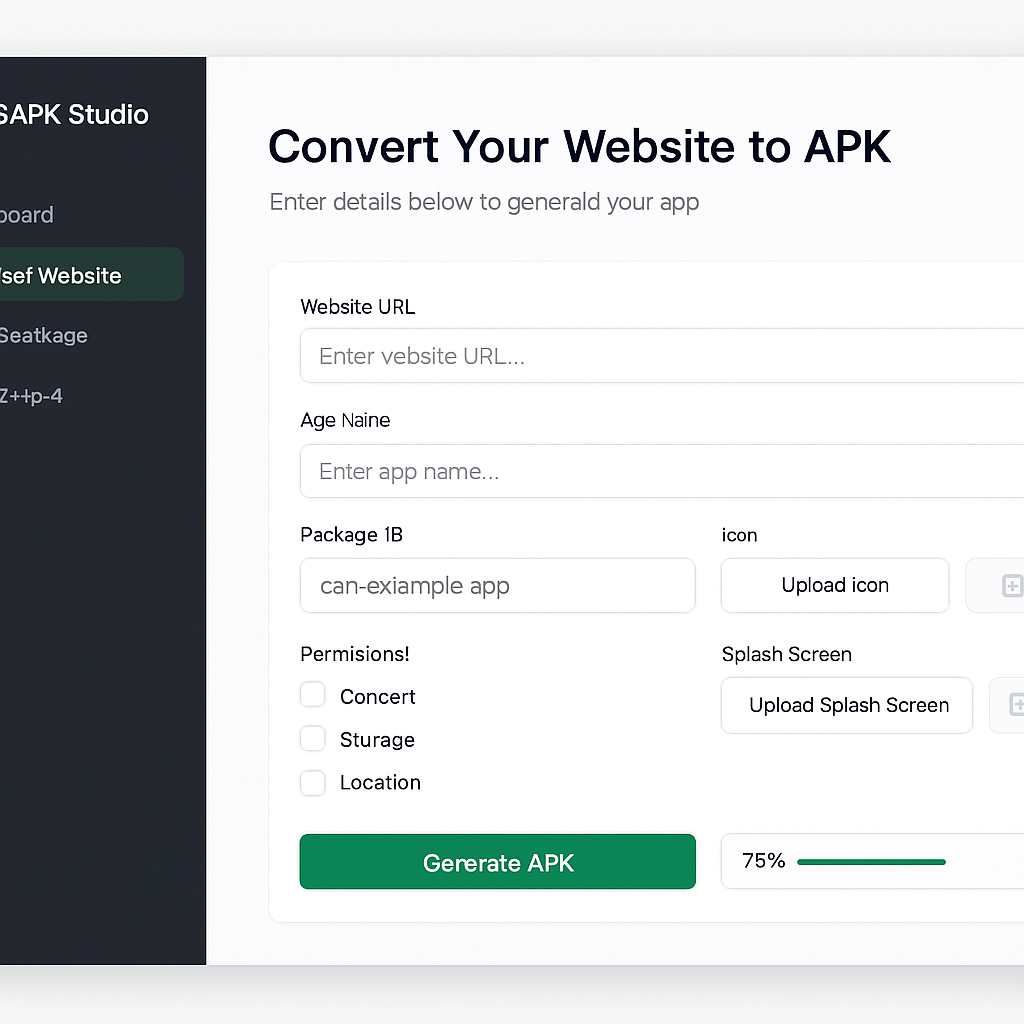
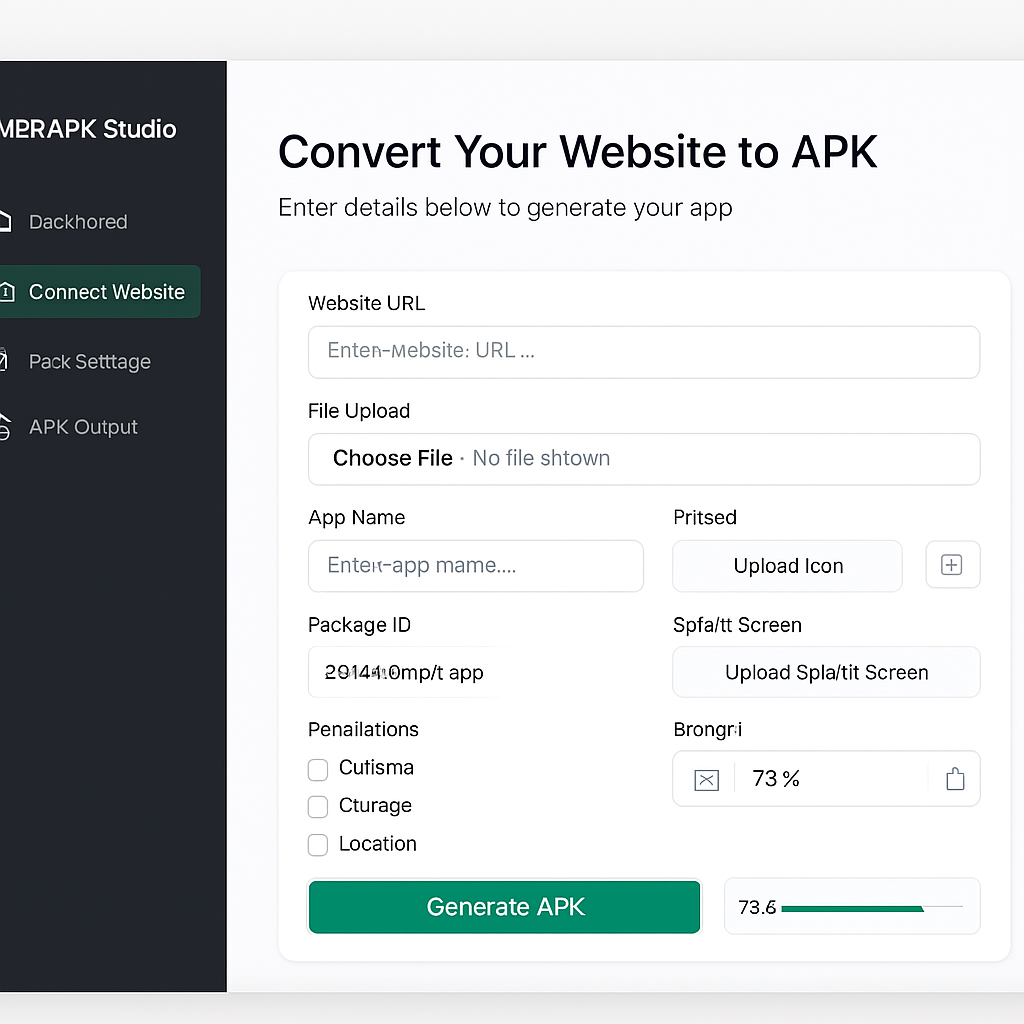
f

diff --git a/src/webtoapk_studio/App.java b/src/webtoapk_studio/App.java
@@ -32,6 +32,9 @@ public class App extends javax.swing.JFrame {
         jPanel2 = new javax.swing.JPanel();
         jLabel1 = new javax.swing.JLabel();
         jLabel2 = new javax.swing.JLabel();
+        jLabel3 = new javax.swing.JLabel();
+        jLabel4 = new javax.swing.JLabel();
+        jPanel3 = new javax.swing.JPanel();
 
         setDefaultCloseOperation(javax.swing.WindowConstants.EXIT_ON_CLOSE);
         setResizable(false);
@@ -55,10 +58,10 @@ public class App extends javax.swing.JFrame {
             .addGroup(jPanel2Layout.createSequentialGroup()
                 .addComponent(jLabel1)
                 .addGap(0, 0, Short.MAX_VALUE))
-            .addGroup(jPanel2Layout.createSequentialGroup()
-                .addGap(16, 16, 16)
+            .addGroup(javax.swing.GroupLayout.Alignment.TRAILING, jPanel2Layout.createSequentialGroup()
+                .addContainerGap(17, Short.MAX_VALUE)
                 .addComponent(jLabel2)
-                .addContainerGap(16, Short.MAX_VALUE))
+                .addGap(15, 15, 15))
         );
         jPanel2Layout.setVerticalGroup(
             jPanel2Layout.createParallelGroup(javax.swing.GroupLayout.Alignment.LEADING)
@@ -69,19 +72,53 @@ public class App extends javax.swing.JFrame {
                 .addComponent(jLabel1))
         );
 
+        jLabel3.setFont(new java.awt.Font("Yu Gothic UI Semibold", 0, 24)); // NOI18N
+        jLabel3.setForeground(new java.awt.Color(0, 0, 0));
+        jLabel3.setText("Convert Your Website To APK ");
+
+        jLabel4.setForeground(new java.awt.Color(0, 0, 0));
+        jLabel4.setText("Enter details below to generate app");
+
+        jPanel3.setBackground(new java.awt.Color(250, 250, 250));
+        jPanel3.setForeground(new java.awt.Color(255, 255, 255));
+
+        javax.swing.GroupLayout jPanel3Layout = new javax.swing.GroupLayout(jPanel3);
+        jPanel3.setLayout(jPanel3Layout);
+        jPanel3Layout.setHorizontalGroup(
+            jPanel3Layout.createParallelGroup(javax.swing.GroupLayout.Alignment.LEADING)
+            .addGap(0, 490, Short.MAX_VALUE)
+        );
+        jPanel3Layout.setVerticalGroup(
+            jPanel3Layout.createParallelGroup(javax.swing.GroupLayout.Alignment.LEADING)
+            .addGap(0, 379, Short.MAX_VALUE)
+        );
+
         javax.swing.GroupLayout jPanel1Layout = new javax.swing.GroupLayout(jPanel1);
         jPanel1.setLayout(jPanel1Layout);
         jPanel1Layout.setHorizontalGroup(
             jPanel1Layout.createParallelGroup(javax.swing.GroupLayout.Alignment.LEADING)
             .addGroup(javax.swing.GroupLayout.Alignment.TRAILING, jPanel1Layout.createSequentialGroup()
                 .addComponent(jPanel2, javax.swing.GroupLayout.PREFERRED_SIZE, javax.swing.GroupLayout.DEFAULT_SIZE, javax.swing.GroupLayout.PREFERRED_SIZE)
-                .addContainerGap(519, Short.MAX_VALUE))
+                .addGap(18, 18, 18)
+                .addGroup(jPanel1Layout.createParallelGroup(javax.swing.GroupLayout.Alignment.LEADING)
+                    .addComponent(jLabel3)
+                    .addComponent(jLabel4, javax.swing.GroupLayout.PREFERRED_SIZE, 200, javax.swing.GroupLayout.PREFERRED_SIZE)
+                    .addComponent(jPanel3, javax.swing.GroupLayout.PREFERRED_SIZE, javax.swing.GroupLayout.DEFAULT_SIZE, javax.swing.GroupLayout.PREFERRED_SIZE))
+                .addContainerGap(17, Short.MAX_VALUE))
         );
         jPanel1Layout.setVerticalGroup(
             jPanel1Layout.createParallelGroup(javax.swing.GroupLayout.Alignment.LEADING)
             .addGroup(jPanel1Layout.createSequentialGroup()
                 .addComponent(jPanel2, javax.swing.GroupLayout.PREFERRED_SIZE, javax.swing.GroupLayout.DEFAULT_SIZE, javax.swing.GroupLayout.PREFERRED_SIZE)
                 .addGap(0, 0, Short.MAX_VALUE))
+            .addGroup(jPanel1Layout.createSequentialGroup()
+                .addContainerGap()
+                .addComponent(jLabel3)
+                .addPreferredGap(javax.swing.LayoutStyle.ComponentPlacement.RELATED)
+                .addComponent(jLabel4)
+                .addPreferredGap(javax.swing.LayoutStyle.ComponentPlacement.RELATED)
+                .addComponent(jPanel3, javax.swing.GroupLayout.PREFERRED_SIZE, javax.swing.GroupLayout.DEFAULT_SIZE, javax.swing.GroupLayout.PREFERRED_SIZE)
+                .addContainerGap(javax.swing.GroupLayout.DEFAULT_SIZE, Short.MAX_VALUE))
         );
 
         javax.swing.GroupLayout layout = new javax.swing.GroupLayout(getContentPane());
@@ -127,7 +164,10 @@ public class App extends javax.swing.JFrame {
     // Variables declaration - do not modify//GEN-BEGIN:variables
     private javax.swing.JLabel jLabel1;
     private javax.swing.JLabel jLabel2;
+    private javax.swing.JLabel jLabel3;
+    private javax.swing.JLabel jLabel4;
     private javax.swing.JPanel jPanel1;
     private javax.swing.JPanel jPanel2;
+    private javax.swing.JPanel jPanel3;
     // End of variables declaration//GEN-END:variables
 }
